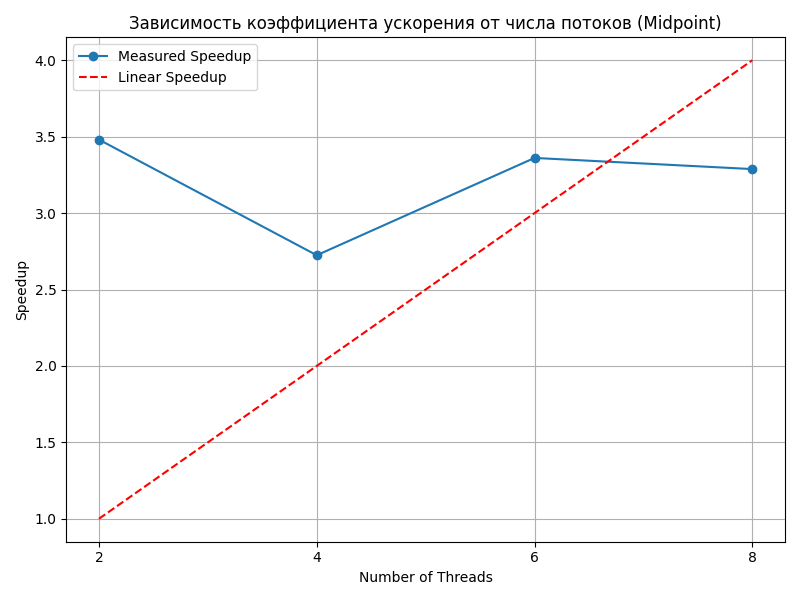
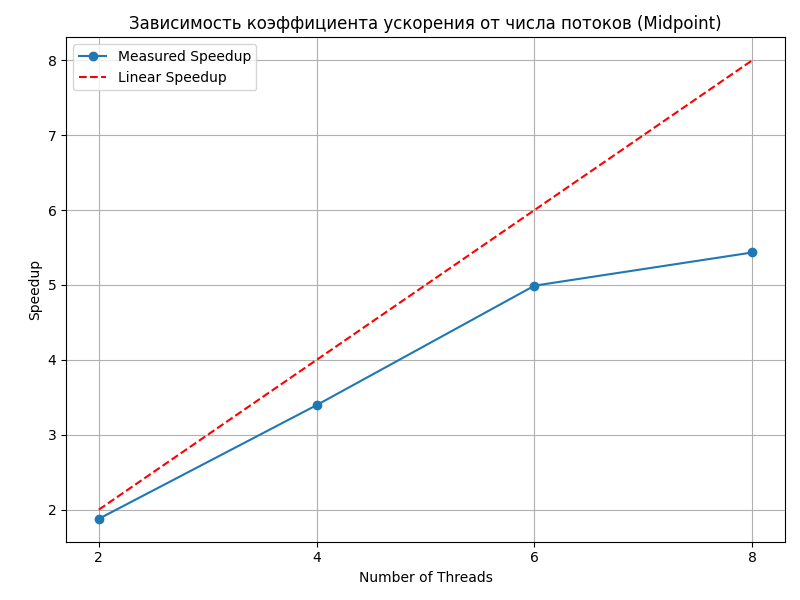
dbccvb

diff --git a/pct-spring-lab3/midpoint.c b/pct-spring-lab3/midpoint.c
@@ -22,19 +22,25 @@ double func(double x) {
 }
 
 void serial() {
-    const double a = -1;
-    const double b = 1;
-    const int n = 400000000;
+  const double a = -1;
+  const double b = 1;
+  const int n0 = 100000000;
+  int n = n0, k;
+  const double eps = 1E-5;
+  double sq[2];
+  double delta = 1;
+  t_serial = wtime();
+  for (k = 0; delta > eps; n *= 2, k ^= 1) {
     double h = (b - a) / n;
     double s = 0.0;
-    t_serial = wtime();
-    for (int i = 0; i < n; i++) 
-        s += func(a + h * (i + 0.5));
-    s *= h;
-    t_serial = wtime() - t_serial;
-    printf("n = %d\n", n);
-    printf("Elapsed time (serial): %.6f sec.\n", t_serial);
-    printf("Result: %.12f\n\n", s);
+    for (int i = 0; i < n; i++) s += func(a + h * (i + 0.5));
+        sq[k] = s * h;
+    if (n > n0) 
+        delta = fabs(sq[k] - sq[k ^ 1]) / 3.0;
+  }
+  t_serial = wtime() - t_serial;
+  printf("Elapsed time (serial): %.6f sec.\n", t_serial);
+  printf("Result: %.12f\n", sq[k]);
 }
 
 void parallel() {

diff --git a/pct-spring-lab3/graph.py b/pct-spring-lab3/graph.py
@@ -1,5 +1,6 @@
 import matplotlib.pyplot as plt
 
+
 def read_speedup_data(filename):
     with open(filename, 'r') as file:
         lines = file.readlines()[1:]  # Пропускаем первую строку с заголовком
@@ -19,8 +20,8 @@ def plot_speedup(threads, speedup, title, label):
 
     # Линия линейного ускорения
     max_threads = max(threads)
-    linear_speedup = [thread / threads[0] for thread in threads]
-    plt.plot([threads[0], max_threads], [1, max_threads // threads[0]], linestyle='--', color='red', label='Linear Speedup')
+    linear_speedup = [thread for thread in threads]
+    plt.plot(threads, linear_speedup, linestyle='--', color='red', label='Linear Speedup')
     
     plt.legend()
 
